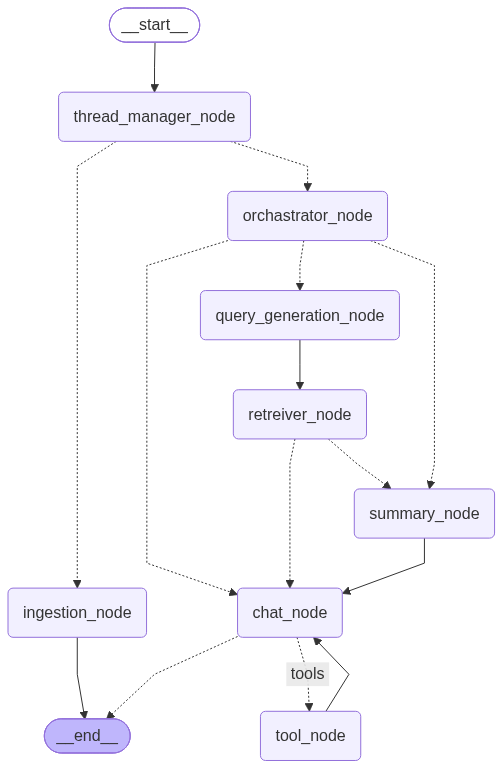
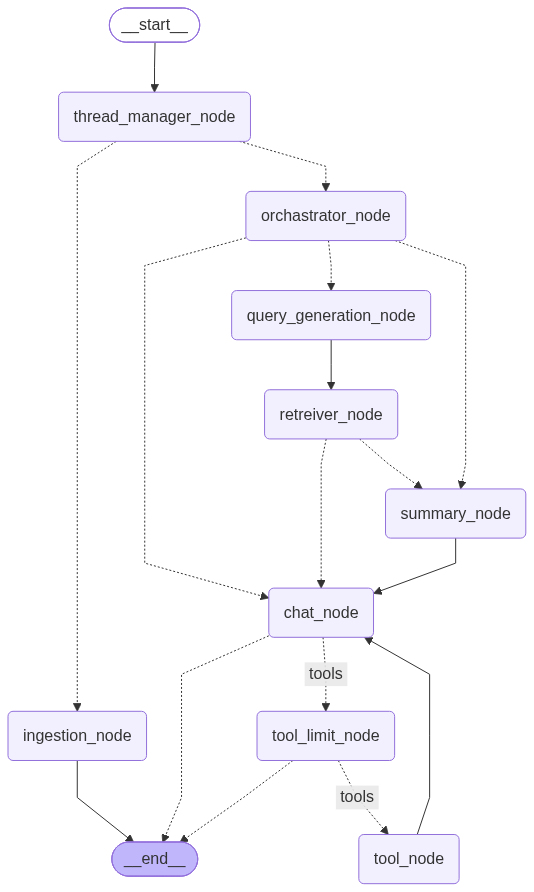
tool call limit added

diff --git a/src/nodes/advance_nodes.py b/src/nodes/advance_nodes.py
@@ -4,14 +4,16 @@ from src.core.exceptions import MyException
 from src.domain.state import State
 from src.llm.llm_loader import get_llm
 from src.retrievers.pinecone_retriever import get_retriever
-from src.core.constants import NO_OF_LAST_MESSAGES_TO_KEEP, DEFAULT_INDEX_NAME
+from src.core.constants import NO_OF_LAST_MESSAGES_TO_KEEP, DEFAULT_INDEX_NAME,MAX_TOOL_CALL_LIMIT
 from src.prompts.templates import SUMMARIZER_PROMPT
 from langchain_core.messages import RemoveMessage, HumanMessage,SystemMessage
 from src.domain.config_entities import RetrieverConfig
 from langchain_core.runnables import RunnableConfig
 from src.core.constants import LENGTH_OF_SUMMARY_GENERATED as NO_OF_WORDS_TO_SUMMARIZE
 from langfuse import observe
+from langchain.agents.middleware import ToolCallLimitMiddleware
 
+limit_mw=ToolCallLimitMiddleware(run_limit=MAX_TOOL_CALL_LIMIT,exit_behavior="end")
 
 @observe(name="summerizer_node")
 async def summerizer(state: State, config: RunnableConfig):
@@ -74,3 +76,14 @@ async def _cleanup_evicted_thread(thread_id: str):
         logger.info("Evicted thread=%s cleanup complete", thread_id)
     except Exception as e:
         logger.error("Cleanup failed for evicted thread=%s: %s", thread_id, str(e))
+
+
+
+@observe(name="tool_limit_node")
+async def tool_limit_check_node(state:State):
+    updated=await limit_mw.aafter_model(state=state) or {}
+
+    if updated.get("jump_to") == "end":
+        return {**updated,"jump_to":"end"}
+
+    return updated

diff --git a/src/graphs/builder.py b/src/graphs/builder.py
@@ -11,11 +11,12 @@ from src.nodes.main_nodes import (
     retreiver_node,
     chat_node,
 )
-from src.nodes.advance_nodes import summerizer, thread_manager_node
+from src.nodes.advance_nodes import summerizer, thread_manager_node,tool_limit_check_node
 from src.nodes.conditional_nodes import (
     route_entry,
     route_after_orchastrator,
     route_summary_node,
+    route_after_limit,
 )
 from src.core.memory import get_checkpointer, get_store
 from langgraph.prebuilt import ToolNode, tools_condition
@@ -36,6 +37,7 @@ def get_graph():
         workflow.add_node("retreiver_node", retreiver_node)
         workflow.add_node("chat_node", chat_node)
         workflow.add_node("summary_node", summerizer)
+        workflow.add_node("tool_limit_node",tool_limit_check_node)
         workflow.add_node("tool_node", ToolNode([solver, save_long_term_memory]))
         workflow.add_edge(START, "thread_manager_node")
 
@@ -66,9 +68,12 @@ def get_graph():
             "chat_node": "chat_node"
         })
         workflow.add_edge("summary_node", "chat_node")
-
+        workflow.add_conditional_edges("tool_limit_node",route_after_limit,{
+            "tools":"tool_node",
+            END:END
+        })
         workflow.add_conditional_edges("chat_node", tools_condition, {
-            "tools": "tool_node",
+            "tools": "tool_limit_node",
             END: END
         })
         workflow.add_edge("tool_node", "chat_node")

diff --git a/src/nodes/conditional_nodes.py b/src/nodes/conditional_nodes.py
@@ -1,7 +1,7 @@
 from src.domain.state import State
 from src.core.constants import NO_OF_LAST_MESSAGES_TO_KEEP
-
-
+from langgraph.prebuilt import tools_condition
+from langgraph.graph import END
 def route_entry(state: State) -> str:
     if state.get("file_paths"):
         return "ingestion_node"
@@ -21,3 +21,9 @@ def route_summary_node(state: State) -> str:
     if len(state.get("messages", [])) > NO_OF_LAST_MESSAGES_TO_KEEP:
         return "summary_node"
     return "chat_node"
+
+
+def route_after_limit(state:State):
+    if state.get("jump_to") == "end":
+        return END
+    return tools_condition(state)

diff --git a/src/core/constants.py b/src/core/constants.py
@@ -46,3 +46,5 @@ MINIMUM_LENGTH_OF_LONG_TERM_MEMORY: int = 10
 LLM_OUTPUT_MAX_WORDS: int = 100
 
 MAXIMUM_CONNECTION_POOL_SIZE: int = 20
+
+MAX_TOOL_CALL_LIMIT:int = 3
